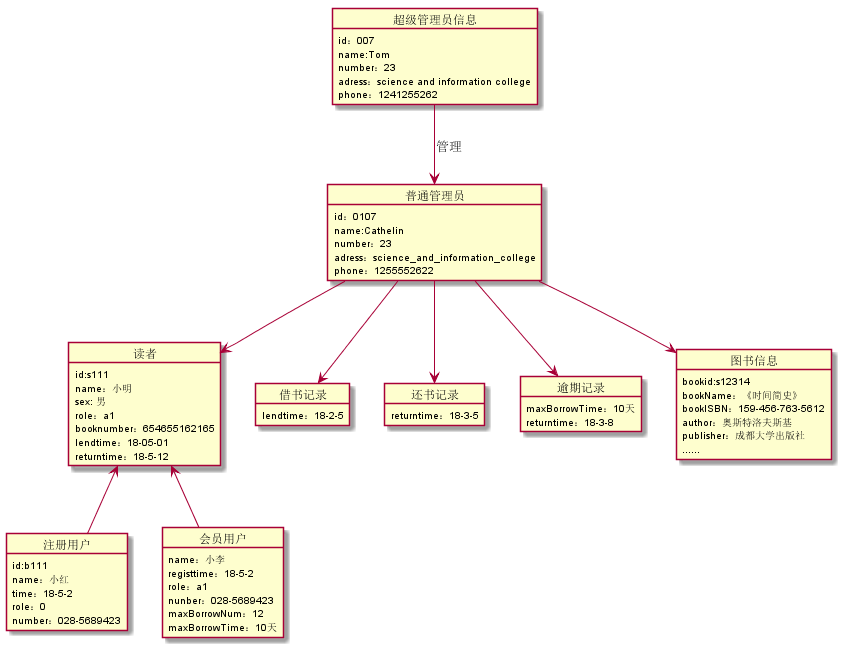
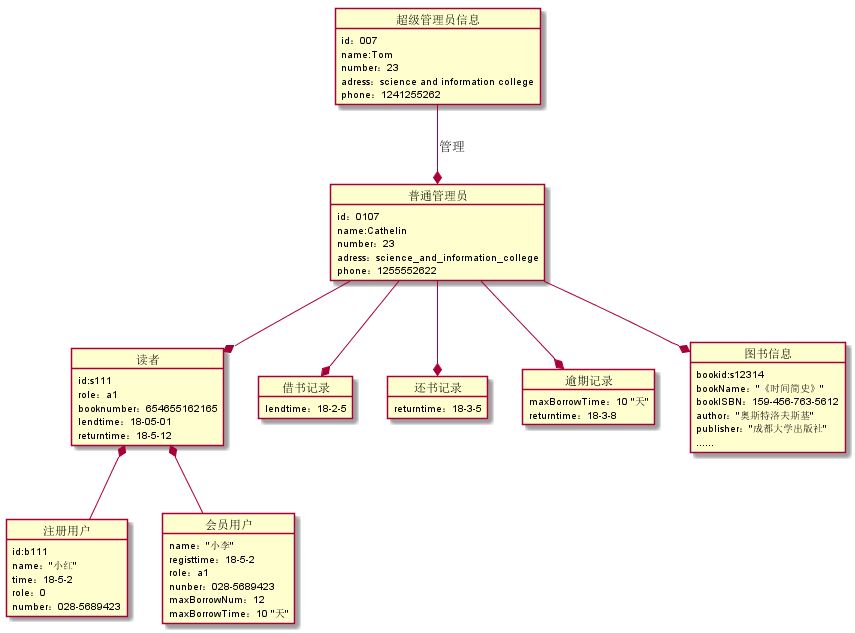
test3 v 2.0

Changed region(s): [[0.0, 0.0, 0.7729, 1.0], [0.742, 0.5103, 0.9893, 0.7504], [0.7111, 0.4803, 0.742, 0.5103]]

diff --git a/test3/README.md b/test3/README.md
@@ -9,73 +9,65 @@
 ```
 @startuml
 
-class 读者{
-    -ID:String
-    -name:String  
-    -sex:String
-    -role:String 
-    -number:Interger
-}
 class 注册用户{
-    -ID:String
-    -name:String  
-    -sex:String
-    -role:String 
-    -number:Interger
+    +ID:String
+    +name:String  
+    +sex:String
+    +role:String 
+    +number:Interger
 }
 class 会员{
-    -name:String 
-    -age:Interger
-    -maxBorrowNum:Interger
-    -maxBorrowDays:date
-    -roletime:date
+    +name:String 
+    +age:Interger
+    +maxBorrowNum:Interger
+    +maxBorrowDays:date
+    +roletime:date
 }
 class 预定的记录{
-    -booktime:date
+    +booktime:date
     +add()
     +select()
 }
 class 借书记录{
-    -lendtime:date
-    -returntime:date
+    +lendtime:date
+    +returntime:date
     +add()
     +select()
 }
 class 逾期记录{
-    -continueday:date
-    -lastday:date
-    -returntime:date
+    +continueday:date
+    +lastday:date
+    +returntime:date
     +add()
     +select()
 }
 class 超级管理员{
-    -mangerId:Interger
-    -mangerName:String
-    -mangerNumber:String
-    -mangerAddress:String
-    -mangerPhone:String
+    +mangerId:Interger
+    +mangerName:String
+    +mangerNumber:String
+    +mangerAddress:String
+    +mangerPhone:String
     +add()
     +select()
     +delete()
     +update()
 }
 class 管理员信息{
-    -mangerId:Interger
-    -mangerName:String
-    -mangerNumber:String
-    -mangerAddress:String
-    -mangerPhone:String
+    +mangerId:Interger
+    +mangerName:String
+    +mangerNumber:String
+    +mangerAddress:String
+    +mangerPhone:String
     +add()
     +select()
     +delete()
     +update()
 }
 class 读者信息{
-    -readerId:Interger 
-    -readerName:String 
-    -bookISBN:String 
-    -lendBookTime:String 
-    -returnBookTime:String
+    +readerId:Interger 
+    +readerName:String 
+    +lendBookTime:String 
+    +returnBookTime:String
     +select()
     +borrow()
     +xujie()
@@ -84,14 +76,14 @@ class 读者信息{
     +findBook()
 }
 class 图书信息{
-    -bookId:Interger
-    - bookISBN:String
-    -bookName:String 
-    -total:Interger 
-    -stock:Interger 
-    -publisher:String 
-    -author:String 
-    -summary:String
+    +bookId:Interger
+    + bookISBN:String
+    +bookName:String 
+    +total:Interger 
+    +stock:Interger 
+    +publisher:String 
+    +author:String 
+    +summary:String
     +add()
     +select()
     +delete()
@@ -99,20 +91,20 @@ class 图书信息{
     +setStatus()
 }
 
-读者信息 "多" --* "1" 预定的记录  :借阅
+读者信息  --*  预定的记录  :借阅
 读者信息 --> 借书记录:添加
 借书记录 --> 管理员信息:增加借阅信息
 借书记录 --> 逾期记录
 逾期记录 --> 管理员信息:处理
 预定的记录 --> 管理员信息 :增加预定记录
-管理员信息 "1" --* "多" 图书信息 :mange
-管理员信息 "1" --* "多" 读者信息  :mange
+管理员信息  --*  图书信息 :mange
+管理员信息  --*  读者信息  :mange
 超级管理员 "1" -- "多"管理员信息:contains
-读者信息    <|--    读者
 读者信息    <|--    注册用户
 读者信息    <|--    会员
 
 @enduml
+
 
 ```
 ### 1.2类图
@@ -123,7 +115,7 @@ class 图书信息{
 
 读者信息有包含了三个种类分别有对应的等级
 借书记录、预订记录、逾期记录描述是图书信息类的一部分
-读者和管理员、超级管理员可以对图书信息类、预借信息类、借阅信息类进行操作但是操作的权限不同
+会员和注册用户和管理员、超级管理员可以对图书信息类、预借信息类、借阅信息类进行操作但是操作的权限不同
 比如：普通管理员只能对BookInfo进行select操作，但是超级管理员能对其进行更多的删改添加操作
 
 # 2.图书管理系统对象图
@@ -147,8 +139,6 @@ object 普通管理员{
 }
 object 读者{
     id:s111
-    name：小明
-    sex: 男
     role：a1
     booknumber：654655162165
     lendtime：18-05-01
@@ -156,18 +146,18 @@ object 读者{
 }
 object 注册用户{
     id:b111
-    name：小红
+    name："小红"
     time：18-5-2
     role：0
     number：028-5689423
 }
 object 会员用户{
-    name：小李
+    name："小李"
     registtime：18-5-2
     role：a1
     nunber：028-5689423
     maxBorrowNum：12
-    maxBorrowTime：10天
+    maxBorrowTime：10 "天"
 }
 object 借书记录{
     lendtime：18-2-5
@@ -176,26 +166,26 @@ object 还书记录{
     returntime：18-3-5
 }
 object 逾期记录{
-    maxBorrowTime：10天
+    maxBorrowTime：10 "天"
     returntime：18-3-8
 }
 object 图书信息{
     bookid:s12314
-    bookName：《时间简史》
+    bookName："《时间简史》"
     bookISBN：159-456-763-5612
-    author：奥斯特洛夫斯基
-    publisher：成都大学出版社
+    author："奥斯特洛夫斯基"
+    publisher："成都大学出版社"
     ......
 }
-超级管理员信息 -->普通管理员:管理
-普通管理员 --> 图书信息
-普通管理员 --> 借书记录
-普通管理员 --> 还书记录
-普通管理员 --> 逾期记录
-普通管理员 --> 读者
+超级管理员信息 --* 普通管理员:管理
+普通管理员 --* 图书信息
+普通管理员 --* 借书记录
+普通管理员 --* 还书记录
+普通管理员 --* 逾期记录
+普通管理员 --* 读者
 
-读者<-- 注册用户
-读者<-- 会员用户
+读者 *-- 注册用户
+读者 *-- 会员用户
 @enduml
 ```
 ### 2.2图片
@@ -209,11 +199,11 @@ object 图书信息{
 ```
 @startuml
 class MangeInfo{
-    -mangerId:Interger
-    -mangerName:String
-    -mangerNumber:String
-    -mangerAddress:String
-    -mangerPhone:String
+    +mangerId:Interger
+    +mangerName:String
+    +mangerNumber:String
+    +mangerAddress:String
+    +mangerPhone:String
     ..getter..
     +getMangerId()
     +getMangerName()
@@ -238,14 +228,14 @@ class MangeInfo{
 ```
 @startuml
 class Book{
-    -bookId:Interger
-    - bookISBN:String
-    -bookName:String 
-    -total:Interger 
-    -stock:Interger 
-    -publisher:String 
-    -author:String 
-    -summary:String
+    +bookId:Interger
+    +bookISBN:String
+    +bookName:String 
+    +total:Interger 
+    +stock:Interger 
+    +publisher:String 
+    +author:String 
+    +summary:String
     ..getter..
     +getBookId()
     +getBookISBN()
@@ -270,60 +260,31 @@ class Book{
 ```
 ### 3.2.1图片
 ![](./test3_4.png '描述')
+
 ### 3.3读者信息类图
 
 源码
 ```
 @startuml
-class MangeInfo{
-    -mangerId:Interger
-    -mangerName:String
-    -mangerNumber:String
-    -mangerAddress:String
-    -mangerPhone:String
-    ..getter..
-    +getMangerId()
-    +getMangerName()
-    +getMangerNumber()
-    +getMangerAddress()
-    +getMangerPhone()
-    ..setter..
-    +setMangerId()
-    +setMangerName()
-    +setMangerNumber()
-    +setMangerAddress()
-    +setMangerPhone()
-}
-@enduml
-```
-### 3.1.1图片
-![](./test3_3.png '描述')
-
-### 3.2图书信息类图
-
-源码
-```
-@startuml
 class ReaderInfo{
-    -readerId:Interger 
-    -readerName:String 
-    -bookISBN:String 
-    -lendBookTime:String 
-    -returnBookTime:String
+    +readerId:Interger 
+    +readerName:String 
+    +lendbookid:Interger
+    +lendBookTime:String 
+    +returnBookTime:String
     ..getter..
     +getReaderId()
     +getReaderName()
-    +getBookISBN()
+    +getLendBookid()
     +getLendBookTime()
     +getReturnBookTime()
     ..setter..
     +setReaderId()
     +setReaderName()
-    +setBookISBN()
+    +setLendBookid()
     +setLendBookTime()
     +setReturnBookTime() 
 }
 @enduml
-```
 ### 3.3.1图片
 ![](./test3_5.png '描述')
